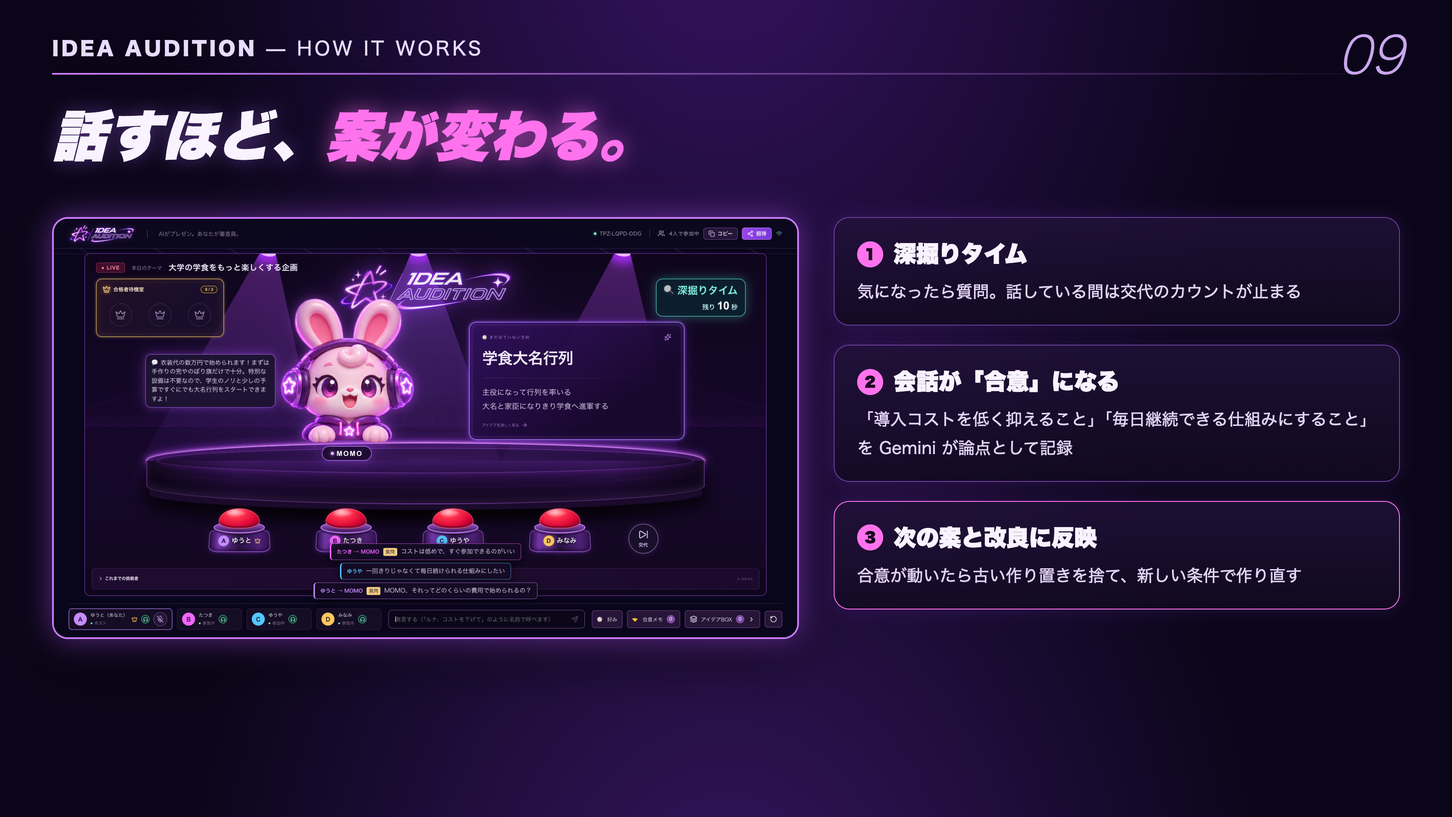
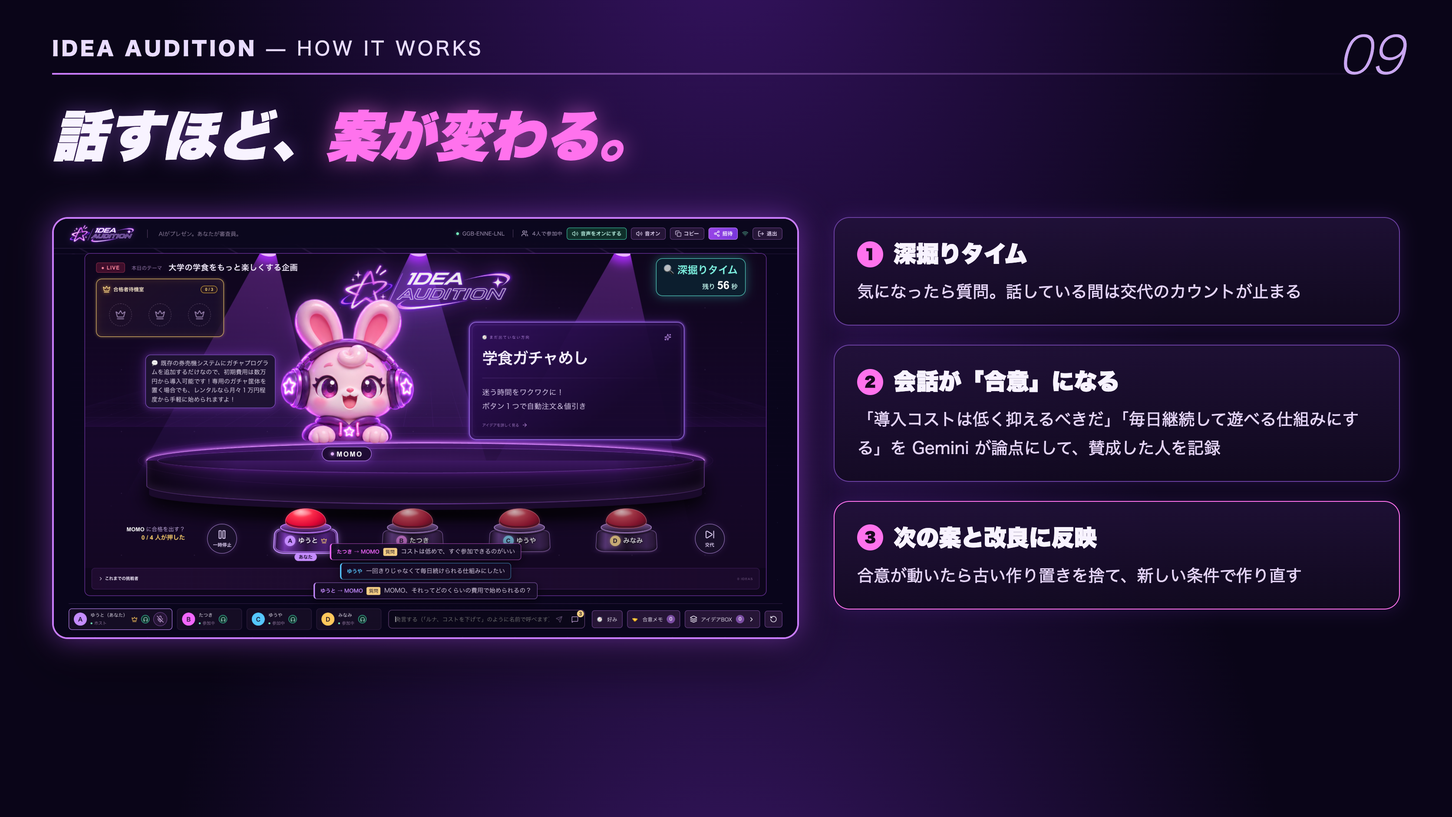
資料を完成形に合わせる：機能一覧を新設し、README・タスク一覧・構成図（スライド用）・スライド v12 を更新
- docs/00-product/feature-status.md：完成形の機能と、済み／予定の一覧（資料はこれに合わせる）
- README：遊び方、本番 URL、構成（packages/camp）、部屋のリンク、TURN の設定。古い ?s= と AI モード選択の説明を消す
- タスク一覧と UI レビュー：PR #31・#33・#34 と TURN で済んだものに印
- スライド用の構成図：Cloudflare の TURN 中継と GET /api/ice、発言の仕分け・言い直し、声の調子（予定）、全員一致の判定
- スライド v12：06〜09 を最新の main の画面で撮り直し、11・12・16（テスト 198件、直したこと）を更新

diff --git a/docs/pitch/slide-assets/arch3.html b/docs/pitch/slide-assets/arch3.html
@@ -1,7 +1,7 @@
 <!doctype html><html><head><meta charset="utf-8"><script src="icons.js"></script><script src="brands.js"></script><style>
 :root{--bg:#0b0716;--pink:#FF72ED;--violet:#C97CFA;--green:#5be3b0;--blue:#7cc4ff;--text:#F8F3FF;--muted:#B9A8D0}
 *{box-sizing:border-box;margin:0;padding:0}
-html,body{width:1250px;height:545px;overflow:hidden;color:var(--text);font-family:"Hiragino Sans",sans-serif;
+html,body{width:1250px;height:655px;overflow:hidden;color:var(--text);font-family:"Hiragino Sans",sans-serif;
 background-color:var(--bg);background-image:linear-gradient(#ffffff08 1px,transparent 1px),linear-gradient(90deg,#ffffff08 1px,transparent 1px);background-size:16px 16px}
 .zone{position:absolute;border:1.4px dashed #4b3670;border-radius:14px}
 .zone.solid{border-style:solid;border-color:#5a4590;background:#ffffff04}
@@ -14,7 +14,7 @@ background-color:var(--bg);background-image:linear-gradient(#ffffff08 1px,transp
 .chip{position:absolute;font-size:9.5px;font-weight:700;padding:5px 7px;border-radius:8px;background:#1a1129;border:1px solid #4d3570;text-align:center;white-space:nowrap}
 .lb{position:absolute;font-size:8.8px;font-family:"SF Mono",Menlo,monospace;padding:1px 4px;border-radius:4px;background:var(--bg);white-space:nowrap}
 </style></head><body>
-<div id="z"></div><svg id="s" width="1250" height="545" style="position:absolute;left:0;top:0"></svg><div id="t"></div>
+<div id="z"></div><svg id="s" width="1250" height="655" style="position:absolute;left:0;top:0"></svg><div id="t"></div>
 <script>
 const C={pink:'#FF72ED',violet:'#C97CFA',green:'#5be3b0',blue:'#7cc4ff',gray:'#9b8bb5',gold:'#ffcf6b'};
 const Z=document.getElementById('z'),T=document.getElementById('t'),S=document.getElementById('s');
@@ -42,19 +42,20 @@ tile(320,400,'brand:webrtc:333333','通話','WebRTC P2P','#5be3b0');
 tile(175,445,'file-text','企画書 PDF','html2pdf.js','#ffcf6b');
 // cloud run
 tile(500,92,'globe','画面の配信','','#7cc4ff');
-tile(500,220,'door-open','部屋づくり','POST /api/rooms','#7cc4ff');
+tile(500,195,'door-open','部屋づくり','POST /api/rooms','#7cc4ff');
 tile(640,150,'img:camp.png','CAMP Server','kit/server  /camp','#FF72ED');
 tile(800,150,'img:app.png','SessionActor','1部屋=1つ  順に確定','#FF72ED');
 tile(640,385,'audio-lines','音声の中継','/voice','#5be3b0');
-tile(800,385,'spell-check','聞き間違い補正','会議の語彙で直す','#5be3b0');
+tile(800,385,'spell-check','仕分け・言い直し','雑談は捨て、審査の話だけ','#5be3b0');
+tile(500,300,'route','通話の鍵渡し','GET /api/ice','#5be3b0');
 // domain chips
 T.insertAdjacentHTML('beforeend',`<div class="zl" style="left:700px;top:228px;color:#d9a8ff">IDEA AUDITION のルール</div>`);
-[['合意台帳',700,250],['好み 8軸',800,250],['生成プランナー',700,285],['入れ替え（注目度）',800,285]].forEach(([n,x,y])=>T.insertAdjacentHTML('beforeend',`<div class="chip" style="left:${x}px;top:${y}px;width:92px">${n}</div>`));
+[['合意台帳',700,250],['好み 8軸',800,250],['生成プランナー',700,285],['全員一致の判定',800,285]].forEach(([n,x,y])=>T.insertAdjacentHTML('beforeend',`<div class="chip" style="left:${x}px;top:${y}px;width:92px">${n}</div>`));
 // managed
-tile(1000,95,'brand:googlegemini:8E75B2','Gemini 3.5 Flash','案の生成・回答<br>合意の整理・別案','#C97CFA');
+tile(1000,95,'brand:googlegemini:8E75B2','Gemini 3.5 Flash','案の生成・回答・合意の整理<br>発言の仕分け・言い直し','#C97CFA');
 tile(1165,95,'brand:googlegemini:8E75B2','Gemini 3.8 Flash','改良・相互批評<br>企画書','#C97CFA');
 tile(1000,245,'brand:googlegemini:8E75B2','Gemini Embedding','似た案・好みとの近さ','#C97CFA');
-tile(1165,245,'brand:googlegemini:8E75B2','Gemini Live','リアルタイム文字起こし','#C97CFA');
+tile(1165,245,'brand:googlegemini:8E75B2','Gemini Live','リアルタイム文字起こし<br>声の調子','#C97CFA');
 tile(1000,410,'img:firestore.svg','Firestore','確定イベント<br>最新の状態・部屋','#ffcf6b');
 tile(1165,410,'network','Google STUN','通話の経路探し','#5be3b0');
 // flows
@@ -62,7 +63,7 @@ line([[73,150],[98,150]],C.blue);
 line([[73,330],[98,330]],C.gray,{});
 line([[200,95],[293,95]],C.pink,{});
 line([[400,56],[500,56],[500,65]],C.blue,{label:'HTTPS 画面・JS',lx:408,ly:42});
-line([[400,220],[473,220]],C.blue,{label:'POST',lx:418,ly:205});
+line([[400,195],[473,195]],C.blue,{label:'POST',lx:418,ly:180});
 line([[345,95],[400,95],[400,150],[613,150]],C.pink,{label:'WSS /camp',lx:424,ly:134,both:true});
 line([[667,150],[773,150]],C.pink,{label:'command ⇄ event(seq)',lx:674,ly:134});
 line([[827,152],[880,152],[880,247]],C.pink,{both:true});
@@ -77,5 +78,9 @@ line([[827,165],[902,165],[902,410],[973,410]],C.gold,{label:'保存・復元',l
 line([[345,388],[372,388],[372,112],[347,112]],C.green,{label:'つなぐ受け渡し（Ephemeral）',lx:226,ly:320,dash:true});
 T.insertAdjacentHTML('beforeend',`<div style="position:absolute;left:112px;top:512px;display:flex;gap:9px;font-size:8.8px;color:#b9a8d0">`+[['#FF72ED','CAMP'],['#C97CFA','Gemini'],['#5be3b0','声'],['#ffcf6b','保存'],['#7cc4ff','HTTP']].map(([c,n])=>`<span style="display:flex;align-items:center;gap:3px"><i style="width:12px;height:2px;background:${c};display:inline-block"></i>${n}</span>`).join('')+`</div>`);
 line([[293,400],[232,400]],C.green,{label:'ほかの審査員と直接',lx:206,ly:380,dash:true,both:true});
+line([[347,425],[455,425],[455,300],[473,300]],C.green,{label:'GET /api/ice',lx:380,ly:432,dash:true});
+zone(420,548,822,100,'Cloudflare','#f6a35b');
+tile(1165,588,'network','TURN 中継','直接つながらない時だけ','#f6a35b');
+line([[388,534],[388,588],[1138,588]],'#f6a35b',{label:'直接つながらないときは中継（テザリング・大学の Wi-Fi など）',lx:560,ly:580,dash:true,both:true});
 line([[345,410],[388,410],[388,534],[1110,534],[1110,410],[1138,410]],C.green,{label:'STUN',lx:640,ly:527,dash:true});
 </script></body></html>

diff --git a/docs/pitch/slide-assets/v12/gen.py b/docs/pitch/slide-assets/v12/gen.py
@@ -30,7 +30,7 @@ slides[8]=('HOW IT WORKS','''
 <div class="frame" style="position:absolute;left:60px;top:250px;width:860px"><img src="01-deepdive.png"></div>
 <div style="position:absolute;left:960px;right:60px;top:250px;display:grid;gap:22px">
 <div class="card" style="padding:22px 26px"><div style="display:flex;gap:12px;align-items:center;font-size:26px;font-weight:900"><span class="num">1</span>深掘りタイム</div><p class="sub" style="font-size:19px;margin-top:8px">気になったら質問。話している間は交代のカウントが止まる</p></div>
-<div class="card" style="padding:22px 26px"><div style="display:flex;gap:12px;align-items:center;font-size:26px;font-weight:900"><span class="num">2</span>会話が「合意」になる</div><p class="sub" style="font-size:19px;margin-top:8px">「導入コストを低く抑えること」「毎日継続できる仕組みにすること」を Gemini が論点として記録</p></div>
+<div class="card" style="padding:22px 26px"><div style="display:flex;gap:12px;align-items:center;font-size:26px;font-weight:900"><span class="num">2</span>会話が「合意」になる</div><p class="sub" style="font-size:19px;margin-top:8px">「導入コストは低く抑えるべきだ」「毎日継続して遊べる仕組みにする」を Gemini が論点にして、賛成した人を記録</p></div>
 <div class="card" style="padding:22px 26px;border-color:#ff72ed"><div style="display:flex;gap:12px;align-items:center;font-size:26px;font-weight:900"><span class="num">3</span>次の案と改良に反映</div><p class="sub" style="font-size:19px;margin-top:8px">合意が動いたら古い作り置きを捨て、新しい条件で作り直す</p></div>
 </div>''')
 slides[9]=('THE ENGINEERING','''
@@ -64,9 +64,9 @@ slides[11]=('GOOGLE CLOUD',f'''
 <h1 style="position:absolute;left:60px;top:112px;font-size:54px">Google の技術で、<em>最後までつくる。</em></h1>
 <div class="card" style="position:absolute;left:60px;top:215px;bottom:55px;width:790px;padding:22px 30px;display:flex;flex-direction:column">
 <div style="display:flex;align-items:center;gap:14px;margin-bottom:6px"><img src="vertexai.svg" width="40"><span style="font-size:30px;font-weight:900">Vertex AI × Gemini</span><span style="font-size:17px;color:#cdb8e8;margin-left:auto">AI は Gemini だけ</span></div>
-{row('Gemini 3.5 Flash','案・回答・合意','審査のテンポを止めない速さ。決まった形（JSON）で受け取り、そのまま画面と台帳へ')}
+{row('Gemini 3.5 Flash','案・回答・合意・発言の仕分け','審査のテンポを止めない速さ。雑談は捨て、審査の話だけを言い直して使う')}
 {row('Gemini 3.8 Flash','改良・批評・企画書','質が要るところだけ上位モデル。優勝が決まる前から企画書を作り置き')}
-{row('Gemini Live','声の文字起こし','会議の語彙（キャラ名・企画名・論点）で聞き間違いを直す')}
+{row('Gemini Live','声の文字起こし・声の調子','会議の語彙で聞き取り、声の温度感も文脈に入れる')}
 {row('Gemini Embedding','似た案を出さない','合格した案とほぼ同じ案を除き、審査員の好みとの近さを測る')}
 </div>
 <div style="position:absolute;left:880px;right:60px;top:215px;bottom:55px;display:grid;grid-template-columns:1fr 1fr;grid-template-rows:1fr 1fr;gap:20px">
@@ -96,15 +96,15 @@ slides[14]=('PROOF',f'''
 <h1 style="position:absolute;left:60px;top:118px;font-size:60px">本当に、<em>作る意味があったのか。</em></h1>
 <div style="position:absolute;left:60px;right:60px;top:250px;display:grid;grid-template-columns:repeat(3,1fr);gap:22px">
 {stat('0','秒','優勝から企画書が出るまで','以前は本番で 11〜13 秒 → 決勝の間に作り置き')}
-{stat('161','件','自動テスト（すべて合格）','4人同時のブザーでも合格は1回・再送は二重に実行しない など')}
+{stat('198','件','自動テスト（すべて合格）','4人同時のブザーでも合格は1回・再送は二重に実行しない など')}
 {stat('5 → 1','人','予選で同時に見る案','5人並びで見るものが多すぎる → 1人ずつ登場')}
 </div>
 <div class="card" style="position:absolute;left:60px;right:60px;top:560px;padding:24px 30px">
 <div style="font-size:22px;font-weight:900;margin-bottom:12px">使ってもらって、直したこと</div>
 <div style="display:grid;grid-template-columns:1fr 1fr;gap:10px 40px;font-size:18px;color:#e3d3f5">
 <span>✓ 5人並びで見るものが多すぎる → 1人ずつ登場</span><span>✓ 改良で旧版の条件が残る → 版ごとに中身を持つ</span>
-<span>✓ 時間に急かされる → 深掘りタイムで止まる</span><span>✓ 同じ質問が2回出る → 二重送信を防止</span>
-<span>✓ 企画書が出るまで待つ → 作り置きで 0 秒</span><span>✓ 質問が誰宛か分からない → スポットライトで共有</span>
+<span>✓ 15秒では発言が間に合わない → 持ち時間を選べる・一時停止</span><span>✓ 同じ質問が2回出る → 二重送信を防止</span>
+<span>✓ 企画書が出るまで待つ → 作り置きで 0 秒</span><span>✓ 回線によって声が届かない → 中継（TURN）でつなぐ</span>
 </div></div>''')
 slides[15]=('THE MESSAGE','''
 <img src="logo.webp" style="position:absolute;right:60px;top:170px;width:700px;filter:drop-shadow(0 0 24px #b250ffaa)">

diff --git a/docs/00-product/feature-status.md b/docs/00-product/feature-status.md
@@ -1,0 +1,93 @@
+# 機能の一覧（完成形と、今の状態）
+
+- 2026-11-09 時点。本番は Cloud Run の rev 00026（main の 3724d26）。その後の main（合意メモの作り直しなど）は未デプロイ
+- 資料（スライド・README・構成図・提出ドキュメント）は、この「完成形」に合わせる。**予定**のものも、完成形として図や説明に入れてよい。ただし、デモ動画と画面写真は実物だけ（偽装は審査対象外）
+- 状態：**済み**＝本番か main に入っている／**予定**＝issue で対応中・対応予定
+
+## 部屋と参加
+
+| 機能 | 中身 | 状態 |
+|---|---|---|
+| 部屋づくり | トップの「オーディションを作る」でリンク（`/a/xxx-xxxx-xxx`）を作り、送って一緒に入る。合言葉なし | 済み |
+| 審査員は4人まで | 5人目からは観覧（聞くだけ） | 済み |
+| ロビーの設定 | テーマ、持ち時間（15・30・60・90秒）、合格者の人数（1〜4人）。ほかの人にはホストの値が見える | 済み |
+| 最初の案の作り置き | テーマを入れている間に最初の挑戦者を作っておき、開始と同時に出す（約1.6秒 → 約0.06秒） | 済み |
+| 退出 | 退出ボタンで一覧からも消える。通信が切れただけなら席を残して戻れる | 済み |
+
+## 予選（1人ずつのオーディション）
+
+| 機能 | 中身 | 状態 |
+|---|---|---|
+| 1人ずつ登場 | AI キャラが1人ずつ企画をプレゼン（#5） | 済み |
+| ゴールデンブザー | 審査員それぞれが自分のブザーを押す。全員一致で合格（#5） | 済み |
+| 残り時間 | 登場から右上に「あと N 秒」。残り5秒から赤、残り3秒からタイマーの音（OtoLogic） | 済み |
+| 深掘りタイム | キャラにカーソルを乗せる・詳細を開く・質問すると、交代のカウントが止まる | 済み |
+| 一時停止 | ブザーの左のボタンで止める・再開する。押した人が抜けたら自動で解除 | 済み |
+| 交代（見送り） | この案はないと判断したら、すぐ次の人と交代 | 済み |
+| 合格者待機室 | 合格したキャラが待機室の枠へ飛んでいき、枠が光る | 済み |
+| 途中で決勝へ | 合格者が人数に満たなくても、ホストがいまの合格者で決勝へ進める | 済み |
+| 合格後の文脈の切り替え | 合格した案についての会話は外し、決まった条件と否定した方向は残す。合格案と似た案は出さない（#6） | 済み |
+
+## 決勝と優勝
+
+| 機能 | 中身 | 状態 |
+|---|---|---|
+| 相互批評と改良 | 決勝の案どうしが批評し合い、新しい版を作る | 済み |
+| スポットライト | タップした1人に全員で注目。名前を呼ばない質問はそのキャラへ（#7） | 済み |
+| 版の履歴と巻き戻し | 詳細で v1・v2… を見比べ、前の版に戻せる（新しい版として積む）（#8） | 済み |
+| 考え中の見せ方 | 改良・批評・回答を考えているキャラに「…」の吹き出しと首かしげ（#10） | 済み |
+| 優勝投票 | 全員で投票。同票ならホストが選ぶ。1人だけの決勝はホストがそのまま選ぶ | 済み |
+| 企画書 | 決勝の間に全員分を作り置きし、優勝と同時に出す（11〜13秒 → 0秒）。PDF・文章コピー・共有 | 済み |
+
+## 会話と合意
+
+| 機能 | 中身 | 状態 |
+|---|---|---|
+| 声の文字起こし | Gemini Live で文字にする。文字起こしは画面に出さない（#2） | 済み |
+| 発言の仕分け・言い直し | 雑談・アプリの話・聞き間違いは捨て、審査の話だけを言い直して使う（#3） | 済み |
+| チャット履歴 | 文字で打った発言と、仕分けで残った発言の履歴 | 済み |
+| 合意メモ | 会話から論点を作り、賛成・反対した人を名前で、賛成の人数をバーで出す。画面からも賛否を付けられる | 済み（main、未デプロイ） |
+| 合意の反映 | 合意が変わったら、古い前提で作った案を捨てて新しい合意で作り直す | 一部（**届くのが遅れた古い案が入る穴あり**。実測計画 M2 で直す） |
+| 声の調子 | 声の温度感を読み、AI の文脈に入れる（#4） | 予定 |
+| 音声認識の精度 | モデル・設定を比べて決める（#1） | 予定 |
+
+## 通話
+
+| 機能 | 中身 | 状態 |
+|---|---|---|
+| 音声通話 | ブラウザどうしを直接つなぐ（WebRTC）。サーバーはつなぐ合図だけを CAMP で中継 | 済み |
+| 中継（TURN） | 直接つながらない回線（テザリング・大学の Wi-Fi など）では Cloudflare の TURN で中継。キーはサーバーだけが持ち、ブラウザには数時間で切れる接続情報を渡す | 済み |
+| マイクの共有 | 通話と文字起こしで同じマイクを使う（iPhone などで2回開くと通話の声が止まるため） | 済み |
+
+## 好みと見せ方
+
+| 機能 | 中身 | 状態 |
+|---|---|---|
+| 好みエンジン | 押した・見送った・迷ったから、審査員ごとの好み（8軸）を読み、次の案の選び方に使う | 済み |
+| 好みのグラフを常に出す | 押さなくても画面に置いておく（#12） | 予定 |
+| キャラの動き | 登場の💡、ブザーで跳ねる、まばたき、しょんぼり退場（#9・#32） | 済み |
+| 効果音 | ブザー・全員そろった・合格・見送り・優勝（ブラウザで作る音）、残り3秒（OtoLogic）。音のオン・オフ（#11） | 済み |
+
+## 効果を測る（実測計画：[plans/2026-11-10-measurement-plan.html](../plans/2026-11-10-measurement-plan.html)）
+
+| 機能 | 中身 | 状態 |
+|---|---|---|
+| 会議の指標 | ログから案の数・決まるまでの時間・発言の偏りなどを出す（#18） | 予定 |
+| 終わったあとのアンケート | 優勝画面のあとに3問（#20） | 予定 |
+| CAMP の効果の実測 | 守りあり／なしで、二重合格と古い前提の案を比べる（#22） | 予定 |
+
+## 技術
+
+| 部品 | 使い方 |
+|---|---|
+| Cloud Run（asia-northeast1） | 画面の配信、CAMP サーバー（WebSocket）、音声の中継、部屋づくり、通話の接続情報。1台で動かす |
+| Vertex AI：Gemini 3.5 Flash | 案の生成・回答・合意の整理・発言の仕分けと言い直し |
+| Vertex AI：Gemini 3.8 Flash | 改良・相互批評・企画書 |
+| Vertex AI：Gemini Live | 声の文字起こし（予定：声の調子） |
+| Vertex AI：Gemini Embedding | 似た案を出さない・好みとの近さ |
+| Firestore | 確定したイベントと最新の状態（再起動しても続きから） |
+| Secret Manager | TURN のキー |
+| Cloud Build・Artifact Registry | コンテナを作って保管し、Cloud Run へ出す |
+| Google STUN | 通話の経路探し |
+| Cloudflare TURN | 直接つながらないときの通話の中継（Google Cloud の外） |
+| CAMP（自作のプロトコル、`packages/camp`） | 人の操作と AI の結果を、部屋ごとに1つの順番で確定する。commandId で二重実行を防ぎ、epoch で古い AI の結果を捨てる |

diff --git a/README.md b/README.md
@@ -2,14 +2,27 @@
 
 AIがプレゼン。あなたが審査員。— アイデア出しをオーディション審査で終わらせる企画案決めツール。
 
-設計資料は [docs/README.md](docs/README.md)。実装計画は [docs/implementation-plan.md](docs/implementation-plan.md)。
+- **本番**：https://idea-audition-852280753109.asia-northeast1.run.app （トップで「オーディションを作る」→ リンクを送って一緒に審査）
+- **機能の一覧（完成形と今の状態）**：[docs/00-product/feature-status.md](docs/00-product/feature-status.md)
+- **構成図**：[docs/02-architecture/system-map.html](docs/02-architecture/system-map.html)
+- 設計資料は [docs/README.md](docs/README.md)。実装計画は [docs/implementation-plan.md](docs/implementation-plan.md)
+
+## 遊び方
+
+1. ホストが部屋を作り、テーマ・持ち時間（15〜90秒）・合格者の人数（1〜4人）を決めてリンクを送る（審査員は4人まで。5人目からは聞くだけ）
+2. **予選**：AI キャラが1人ずつ企画をプレゼン。気になったら話しかけて深掘り（その間は時間が止まる）。全員がゴールデンブザーを押したら合格
+3. **決勝**：合格した案どうしが批評し合い、改良していく。注目したいキャラをタップして質問・改善を頼む。前の版にも戻せる
+4. **優勝**：投票で決めると、企画書がすぐ出る（PDF・文章コピー・共有）
+
+話した内容は合意メモ（賛成・反対した人と人数）にまとまり、次の案づくりに使われます。
 
 ## 構成
 
 ```text
-apps/web          React + TypeScript + Vite（ステージUI、CAMPクライアント）
-apps/server       Node.js + TypeScript（セッションアクター、CAMP の WebSocket 終端）
-packages/protocol CAMP v1 の契約（Zod スキーマ・型・キャラ素材カタログ）
+apps/web          React + TypeScript + Vite（ステージUI、CAMPクライアント、通話、声の入力）
+apps/server       Node.js + TypeScript（セッションアクター、CAMP の WebSocket 終端、Gemini、音声の中継、通話の接続情報）
+packages/camp     CAMP 本体（@camp-protocol/kit：人の操作と AI の結果を1つの順番で確定するプロトコル）
+packages/protocol IDEA AUDITION の語彙（Command・Event・snapshot の形、キャラ素材カタログ）
 reference/        ChatGPT で作ったモックアプリ（参考資料。ビルド対象外）
 ```
 
@@ -24,14 +37,15 @@ pnpm dev
 
 - Web: http://localhost:5173 （`/camp` を Vite が server の 8787 番へプロキシ）
 - Server: ws://localhost:8787/camp、ヘルスチェック http://localhost:8787/health
-- 同じセッションに入るには同じ URL を開きます。`?s=<セッション名>` で別のセッションになります（省略時は `demo`）
-- 審査員は1つのセッションに4人まで。5人目以降は観覧モード
+- トップの「オーディションを作る」で部屋のリンク（`/a/xxx-xxxx-xxx`）ができます。同じリンクを別のタブや端末で開くと、一緒に審査できます
+- 審査員は1つの部屋に4人まで。5人目以降は観覧モード
 
 AI は既定で固定データ（`FixtureGateway`）を使うので、GCP の権限が無くても全機能を試せます。
 
-- **AI のモード**：開始画面で「AI：Gemini（クレジットを使う）」と「固定データ（無料）」を選べ、審査の途中でもホストがヘッダーのバッジで切り替えられます（Gemini はサーバーが `AI_GATEWAY=gemini` のときだけ選べる）。
+- **AI のモード**：本番は Gemini で固定です。開発サーバーでは、部屋の URL に `?ai=fixture` を付けると固定データ（Gemini を呼ばない）で始められます（Gemini はサーバーが `AI_GATEWAY=gemini` のときだけ使える）。
+- **通話の中継（TURN）**：`.env` に Cloudflare の `TURN_KEY_ID`・`TURN_KEY_API_TOKEN` を入れると、直接つながらない回線でも声が届きます。無ければ Google の STUN だけで通話します。
 - **手元で Gemini を使う・クレジットの使い方**：[docs/05-platform/gemini-credits.md](docs/05-platform/gemini-credits.md)
-- **本番**：https://idea-audition-852280753109.asia-northeast1.run.app （トップで部屋を作り、リンクを送って一緒に審査する）、デプロイ手順は [docs/05-platform/deployment.md](docs/05-platform/deployment.md)
+- **デプロイ手順**：[docs/05-platform/deployment.md](docs/05-platform/deployment.md)
 - 設定の一覧は `.env.example`。
 
 ## テスト・ビルド

diff --git a/docs/backlog/2026-11-09-ui-review.md b/docs/backlog/2026-11-09-ui-review.md
@@ -16,10 +16,10 @@
 |---|---|---|---|
 | **P1-1** | 最新版と履歴が混ざって矛盾する | 決勝で「スマホを預けずに参加できる形に」と改善を頼むと、Ver.5 の企画名・説明は「ロッカー預け不要」に変わるのに、詳細の「どう解く」は旧版のまま。優勝画面のチェックリストに「ロッカー預けに変更」と「ロッカー預け不要」が並ぶ | **対応済み（2026-11-09）**：改良で「誰の・困りごと・どう解く」も新しい版として書き直させ、版ごとに持つ。詳細は旧版のものに戻さない。優勝画面とコピーは全版の改善点を足し合わせず、優勝した版の内容だけ。企画書の入力は「今の仕様（最新版）」を正とし、古い版は参考扱い。Gemini での実際の出力はまだ見ていない |
 | **P1-2** | 決勝の空白・小さいキャラ・フリップの省略 | 見出しの下に大きな空白、キャラとフリップが下に密集、説明が「…」で切れる、細いカードで不自然な改行 | **一部対応**：台座ごと持ち上げた、フリップを大きくして優先順位で並べ直し、多い分は中で流す。キャラが手に持つ構図・1280×720 での確認はまだ |
-| **P1-3** | 4人参加時の下の操作バーが詰まる | 審査員4人の札・入力欄・好み・合意メモ・アイデアBOX が1行に詰まり、「好み」「合意メモ」が縦に折り返す。入力欄が狭い | **未対応** |
-| P2-1 | 自動交代と投票の対象が追いにくい | 見ている間に案が替わり、押そうとしたら別の案になっていた。赤い残り秒数で急かされる | **一部対応**：深掘りタイム（カーソル・質問・詳細でカウントが止まる）。ブザーは案の ID を送り、サーバーは今の挑戦者でなければ断る（古い案への操作は次の案に流れない）。ブザーの近くに対象の名前を出すのはまだ |
-| P2-2 | 合格→待機室への移動が見えにくい | 合格演出の最中に待機室の人数がもう増えている。誰がどの枠に入ったか追いにくい | **未対応**：キャラの小さなコピーが待機室の枠へ飛んでいき、枠が光る演出 |
-| P2-3 | 自分のブザーが分かりにくい | 4つとも同じ強さで、名前を読まないと自分のが分からない。補助文字が小さく薄い。共有カーソルの名札がブザーの名前に重なる | **未対応**：自分のブザーに「あなた」の印と輪郭、押したらチェック、カーソルの名札をずらす |
+| **P1-3** | 4人参加時の下の操作バーが詰まる | 審査員4人の札・入力欄・好み・合意メモ・アイデアBOX が1行に詰まり、「好み」「合意メモ」が縦に折り返す。入力欄が狭い | **未対応**（4人の札・入力欄・好み・合意メモ・アイデアBOX が1行のまま） |
+| P2-1 | 自動交代と投票の対象が追いにくい | 見ている間に案が替わり、押そうとしたら別の案になっていた。赤い残り秒数で急かされる | **対応済み**：深掘りタイム（カーソル・質問・詳細でカウントが止まる）。ブザーは案の ID を送り、サーバーは今の挑戦者でなければ断る（古い案への操作は次の案に流れない）。ブザーの近くに「〇〇 に合格を出す？ n / m 人が押した」を出した（PR #31）。一時停止ボタンも付けた。持ち時間はロビーで選ぶ（既定60秒） |
+| P2-2 | 合格→待機室への移動が見えにくい | 合格演出の最中に待機室の人数がもう増えている。誰がどの枠に入ったか追いにくい | **対応済み**（PR #31）：合格したキャラが待機室の枠へ飛んでいき、着いた枠が金色に光る |
+| P2-3 | 自分のブザーが分かりにくい | 4つとも同じ強さで、名前を読まないと自分のが分からない。補助文字が小さく薄い。共有カーソルの名札がブザーの名前に重なる | **対応済み**（PR #31）：自分のブザーに「あなた」の札と輪郭、ほかの人のブザーは少し暗く。押したときのチェック印とカーソルの名札の位置はまだ |
 | P3 | ステージの接地と空間 | 足元の影、舞台側面と床の明度差、床の反射。決勝も予選と同じ床・照明・台座 | **一部対応**：両方に高台の側面と奥の床を付けた。足元の影・反射はまだ |
 
 ## 次にやること（優先順）

diff --git a/docs/backlog/2026-11-09-remaining-tasks.md b/docs/backlog/2026-11-09-remaining-tasks.md
@@ -6,6 +6,27 @@
 - 発表の準備と効果のデータは別にまとめた：[plans/2026-11-09-presentation-and-evidence.md](../plans/2026-11-09-presentation-and-evidence.md)（#14〜#22）
 - 締切は 11/10。A〜C はどれも大きいので、どこまでやるかは別に決める（最後の「決めること」）
 
+## 状態（2026-11-09 夜に更新）
+
+機能ごとの完成形と状態は [00-product/feature-status.md](../00-product/feature-status.md) にまとめた。この表の行ごとの状態：
+
+| | 状態 |
+|---|---|
+| A1 精度の比較 | 予定（#1） |
+| A2 文字起こしを出さない | **済み**（PR #34） |
+| A3 話題に合う発言だけ | **済み**（PR #34：Gemini で仕分け・言い直し） |
+| A4 声の調子 | 予定（#4） |
+| B1 1人ずつ登場・全員のブザー | **済み**。持ち時間はロビーで 15・30・60・90秒から選ぶ（既定60秒）。一時停止ボタン・途中で決勝へ・合格者の人数（1〜4人）も入れた |
+| B2 文脈の区切り | **済み**（PR #33）。合格した案についての会話は外し、決まった条件と否定した方向は残す |
+| B3 決勝で1人を深掘り | **済み**（スポットライト） |
+| B4 版の履歴と巻き戻し | **済み**（PR #33） |
+| C1 キャラの反応 | **済み**（PR #31、表情違いの画像は使わず動きで。#32） |
+| C2 返事の待ち時間 | 見せ方は**済み**（PR #31）。本番の返事の速さの計測は実測計画 M4 |
+| C3 効果音 | **済み**（PR #31 ＋ 残り3秒に OtoLogic のタイマー音） |
+| D1 好みのグラフを常に出す | 予定（#12） |
+| D2 退出ボタン | **済み**（PR #31。退出で一覧からも消える） |
+| 追加：通話が届かない回線 | **済み**（Cloudflare の TURN で中継、通話と文字起こしでマイクを共有） |
+
 ## 一覧
 
 | | タスク | 中身 | 大きさ | Issue |
